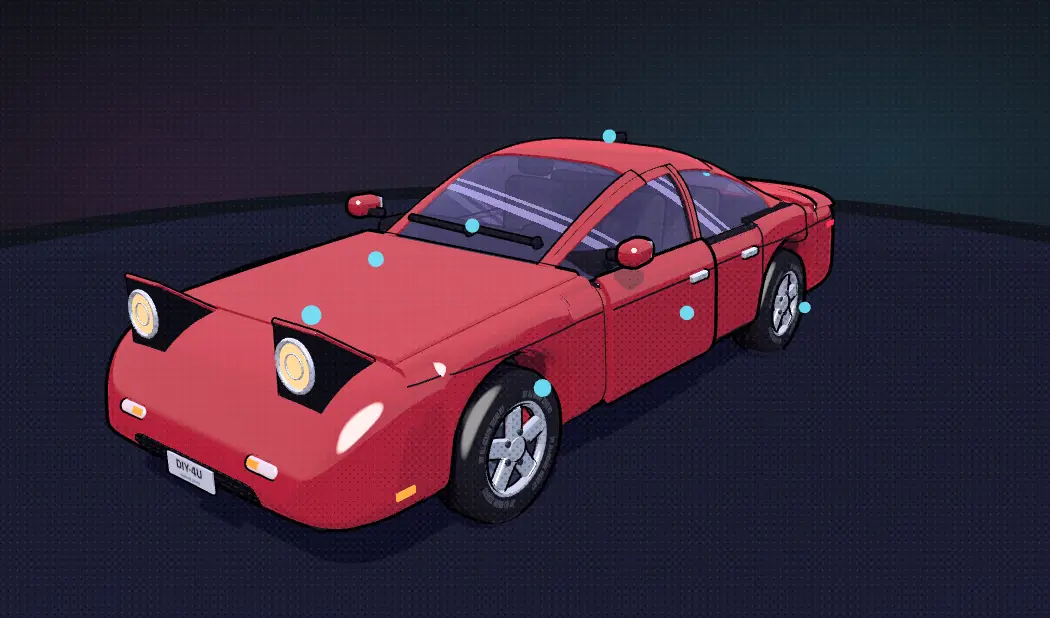
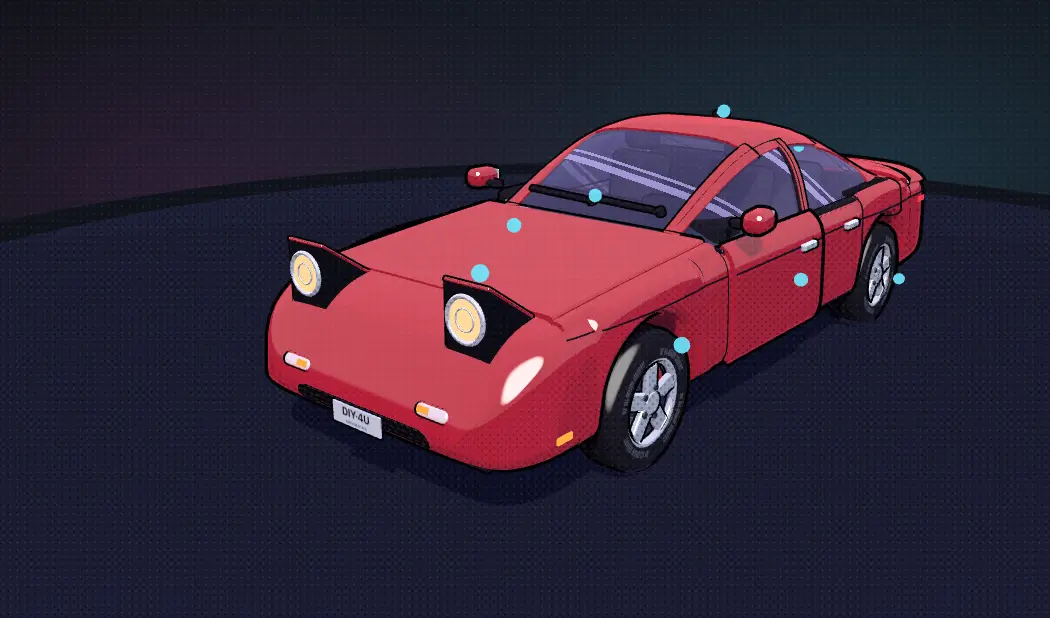
Hub garage slide gets its 'Meanwhile, under the hood' inset, car art reframed clear of it; SUV rear pillar sits flush with the roof; door frame and belt strip join the door highlight, matte trim; beltTrim uses rbox; drop unused colours and ctx exports; README live links in one block; deploy on push 

Changed region(s): [[0.0914, 0.1537, 1.0, 0.8608], [0.0305, 0.3689, 0.0914, 0.3997]]

diff --git a/src/garage/scene/ctx.ts b/src/garage/scene/ctx.ts
@@ -3,10 +3,9 @@ import { outline, toon, type InkWeight } from '../../shared/toon';
 import type { V3 } from '../../shared/scene/kit';
 import type { PartId } from '../data/parts';
 import type { BodyKind } from '../data/paint';
-import { RoundedBoxGeometry } from 'three/examples/jsm/geometries/RoundedBoxGeometry.js';
 import { curve, ringPoint, tAtY, type SectionFn } from './loft';
 import { SPECS } from './specs';
-import { C } from './kit';
+import { C, rbox } from './kit';
 
 /** Everything the car's zones share: the body's spec, its profile curves and the mesh helpers. */
 export function createCtx(kind: BodyKind) {
@@ -133,10 +132,8 @@ export function createCtx(kind: BodyKind) {
 
   /** Ring t of the glasshouse's upper corner on the +x side; the side glass is t below it, the roof above. */
   const GH_CORNER_T = 0.125;
-  /** Black trim along the foot of the side glass, between z0 and z1. */
-  // Wide enough to cap the door top and reach in to the glass, which sits inboard of the skin.
-  const beltTrim = (side: number, z0: number, z1: number) =>
-    new RoundedBoxGeometry(0.064, 0.022, z1 - z0, 2, 0.008).translate(side * (sill.x + 0.003), ghBaseY + 0.008, (z0 + z1) / 2);
+  /** Black trim along the foot of the side glass, between z0 and z1, wide enough to cap the door top and reach in to the glass. */
+  const beltTrim = (side: number, z0: number, z1: number) => rbox(0.064, 0.022, z1 - z0, 0.008).translate(side * (sill.x + 0.003), ghBaseY + 0.008, (z0 + z1) / 2);
 
   /** Height of the glasshouse (roof) surface at (x, z); it falls away from the centre line toward the edges. */
   const roofY = (x: number, z: number) => {
@@ -155,8 +152,8 @@ export function createCtx(kind: BodyKind) {
 
   return {
     S, kind, group, hotspots, paintMats, paint, chromeMat, put, tag,
-    lowerTop, lowerBottom, lowerWidth, hoodLine, fasciaTop, fasciaBottom, fasciaWidth, roofLine,
-    archR, arch, LOWER_N, lower, fenderW, hoodW, hoodZ1, fender, front, hoodEdgeT, noseTopY, onNose, GH_N, TUB_T, sill, ghBaseY, ghBaseW, gh, GH_CORNER_T, beltTrim, roofY, sideX,
+    lowerTop, lowerBottom, lowerWidth, hoodLine, fasciaBottom, fasciaWidth, roofLine,
+    archR, LOWER_N, lower, fenderW, hoodW, hoodZ1, fender, front, hoodEdgeT, noseTopY, onNose, GH_N, TUB_T, sill, ghBaseY, gh, GH_CORNER_T, beltTrim, roofY, sideX,
   };
 }
 

diff --git a/src/garage/scene/zones/door.ts b/src/garage/scene/zones/door.ts
@@ -26,10 +26,12 @@ export function buildDoors(c: CarCtx) {
   // A black frame around the pane (top edge under the roof line and A-pillar, rear edge at the B-pillar)
   // and the belt strip capping the door top, so pane and door read as one piece once it swings open.
   // The frame stays just under the pillar and roof panels, which cover it while the door is shut.
-  const frameMat = () => toon(C.trim, { shine: 0.4 });
-  put(doorPivot, toDoor(beltTrim(1, doorZ0, doorZ1)), frameMat(), undefined, 'thin');
-  put(doorPivot, toDoor(shell(gh, GH_N, doorZ0, doorZ1, GH_CORNER_T - 0.016, GH_CORNER_T, 0.004, 0.008, 40, 3)), frameMat(), undefined, 'thin');
-  put(doorPivot, toDoor(shell(gh, GH_N, doorZ0, doorZ0 + 0.04, -0.015, GH_CORNER_T, 0.004, 0.008, 3, 10)), frameMat(), undefined, 'thin');
+  const frameMat = () => toon(C.trim);
+  const frame = [
+    put(doorPivot, toDoor(beltTrim(1, doorZ0, doorZ1)), frameMat(), undefined, 'thin'),
+    put(doorPivot, toDoor(shell(gh, GH_N, doorZ0, doorZ1, GH_CORNER_T - 0.016, GH_CORNER_T, 0.004, 0.008, 40, 3)), frameMat(), undefined, 'thin'),
+    put(doorPivot, toDoor(shell(gh, GH_N, doorZ0, doorZ0 + 0.04, -0.015, GH_CORNER_T, 0.004, 0.008, 3, 10)), frameMat(), undefined, 'thin'),
+  ];
   const handleY = S.doorY[1] - 0.12;
   const doorHandle = put(doorPivot, rbox(0.035, 0.04, 0.16, 0.012), chromeMat(), [sideX(doorZ0 + 0.2, handleY, 1, 0.045) - doorHinge.x, handleY - doorHinge.y, doorZ0 + 0.2 - doorHinge.z], 'thin');
   const charY = S.belt - 0.17;
@@ -50,7 +52,7 @@ export function buildDoors(c: CarCtx) {
     const glassFace = put(m, rbox(0.09, 0.08, 0.01, 0.004), toon(C.mirror, { shine: 1, halftone: 0 }), [0, 0, -0.094], false);
     mirrorMeshes.push(m, glassFace);
   }
-  tag('door', door, doorHandle, ...mirrorMeshes);
+  tag('door', door, doorHandle, ...frame, ...mirrorMeshes);
 
   const seam = (side: number, z0: number, z1: number) => {
     const s = lower((z0 + z1) / 2);

diff --git a/src/garage/scene/zones/trunk.ts b/src/garage/scene/zones/trunk.ts
@@ -44,12 +44,13 @@ export function buildTrunk(c: CarCtx) {
       return g;
     };
     const W = sill.x + 0.005; // pillar width at the window line = the body's shoulder
+    const RIM = 0.05;
+    // The shell stands RIM proud of this section, so its outer top lands flush with the roof panel (0.016 up).
     const rearSec: SectionFn = (z) => {
-      const yt = roofLine(Math.max(z, S.ghRearZ)) + 0.056;
+      const yt = roofLine(Math.max(z, S.ghRearZ)) + 0.016 - RIM;
       const wt = S.ghW[1] + 0.03;
       return { z, yb: 2 * yk - yt, yt, wb: 2 * W - wt, wt };
     };
-    const RIM = 0.05;
     const pillarZ0 = S.ghRearZ + 0.04;
     const pillars = shear(shell(rearSec, GH_N, S.tailZ, pillarZ0, -0.02, 0.52, -RIM, RIM, 30, 48));
     put(group, pillars, paint());

diff --git a/src/garage/scene/zones/body.ts b/src/garage/scene/zones/body.ts
@@ -57,7 +57,7 @@ export function buildBody(c: CarCtx) {
     for (const [a, b] of S.cornerPillars) band(a, b, GH_CORNER_T - 0.03, GH_CORNER_T + 0.03, side);
     for (const z of S.vertPillars) band(z - 0.035, z + 0.035, -0.015, GH_CORNER_T, side);
     if (!S.suv) band(S.ghRearZ, S.ghRearZ + 0.26, -0.015, GH_CORNER_T, side);
-    const trim = toon(C.trim, { shine: 0.4 });
+    const trim = toon(C.trim);
     const runs: [number, number][] = side > 0 ? [[S.ghRearZ + 0.02, dz0], [dz1, S.cowlZ - 0.02]] : [[S.ghRearZ + 0.02, S.cowlZ - 0.02]];
     for (const [z0, z1] of runs) put(group, beltTrim(side, z0, z1), trim, undefined, 'thin');
   }

diff --git a/index.html b/index.html
@@ -85,6 +85,7 @@
               </div>
               <div class="art-wrap">
                 <div class="cpanel cpanel-art"><img src="hub/garage.webp" alt="A comic-style red sports car with glowing dots on its parts" /></div>
+                <div class="cpanel cpanel-inset"><img src="hub/garage-bay.webp" alt="The hood up on the engine bay, showing the engine, oil cap, battery and washer and coolant tanks" /><span class="caption small">Meanwhile, under the hood…</span></div>
                 <span class="sfx sfx-2" aria-hidden="true">VROOM!</span>
               </div>
             </div>

diff --git a/src/garage/scene/kit.ts b/src/garage/scene/kit.ts
@@ -27,8 +27,6 @@ export const C = {
   lamp: 0xffe7a8,
   lampGlow: 0xffd77a,
   taillight: 0xff3049,
-  seat: 0x3d3a48,
-  plate: 0xa8d4ff,
   hose: 0x1d1c22,
   belt: 0x2a2730,
   marker: 0xffa53a,

diff --git a/README.md b/README.md
@@ -2,14 +2,21 @@
 
 Fix it yourself. Interactive, comic-styled 3D workshops: click the part that's giving you trouble, follow the steps, and open how-to videos on YouTube.
 
-**Try it: [sea-chels.github.io/diy-app](https://sea-chels.github.io/diy-app/)**
+**Try it: [sea-chels.github.io/diy-app][site]**
 
-| Workshop | Open it |
+| Workshop | Live site |
 |---|---|
-| PC | [/pc/](https://sea-chels.github.io/diy-app/pc/) |
-| Garage | [/garage/](https://sea-chels.github.io/diy-app/garage/) |
-| Home | [/home/](https://sea-chels.github.io/diy-app/home/) |
-| Garden | [/garden/](https://sea-chels.github.io/diy-app/garden/) |
+| PC | [/pc/][site-pc] |
+| Garage | [/garage/][site-garage] |
+| Home | [/home/][site-home] |
+| Garden | [/garden/][site-garden] |
+
+<!-- The deploy publishes to /<repo name>/ on the owner's Pages domain; update these if the repo moves. -->
+[site]: https://sea-chels.github.io/diy-app/
+[site-pc]: https://sea-chels.github.io/diy-app/pc/
+[site-garage]: https://sea-chels.github.io/diy-app/garage/
+[site-home]: https://sea-chels.github.io/diy-app/home/
+[site-garden]: https://sea-chels.github.io/diy-app/garden/
 
 Purely client-side: Vite + TypeScript + Three.js + Lucide, no backend, no database.
 
